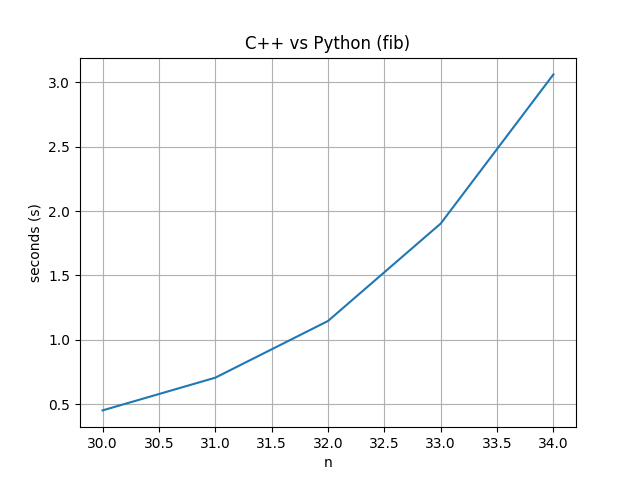
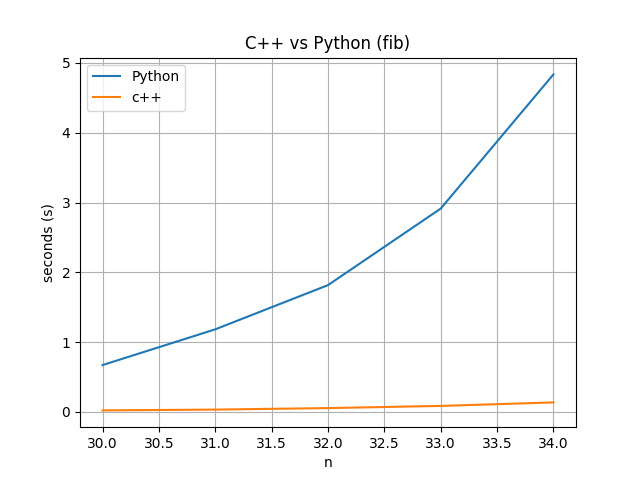
jaja

diff --git a/prog2/OU4/OU4_2/ou4_2.py b/prog2/OU4/OU4_2/ou4_2.py
@@ -24,7 +24,9 @@ def main():
 		ctime.append(t2-t1)
 	n = [*range(30,35)]
 	fig, ax = plt.subplots()
-	ax.plot(n,pytime)
+	ax.plot(n,pytime,label='Python')
+	ax.plot(n,ctime,label='c++')
+	ax.legend()
 	ax.set(xlabel='n',ylabel='seconds (s)',title='C++ vs Python (fib)')
 	ax.grid()
 	fig.savefig('test.png')
